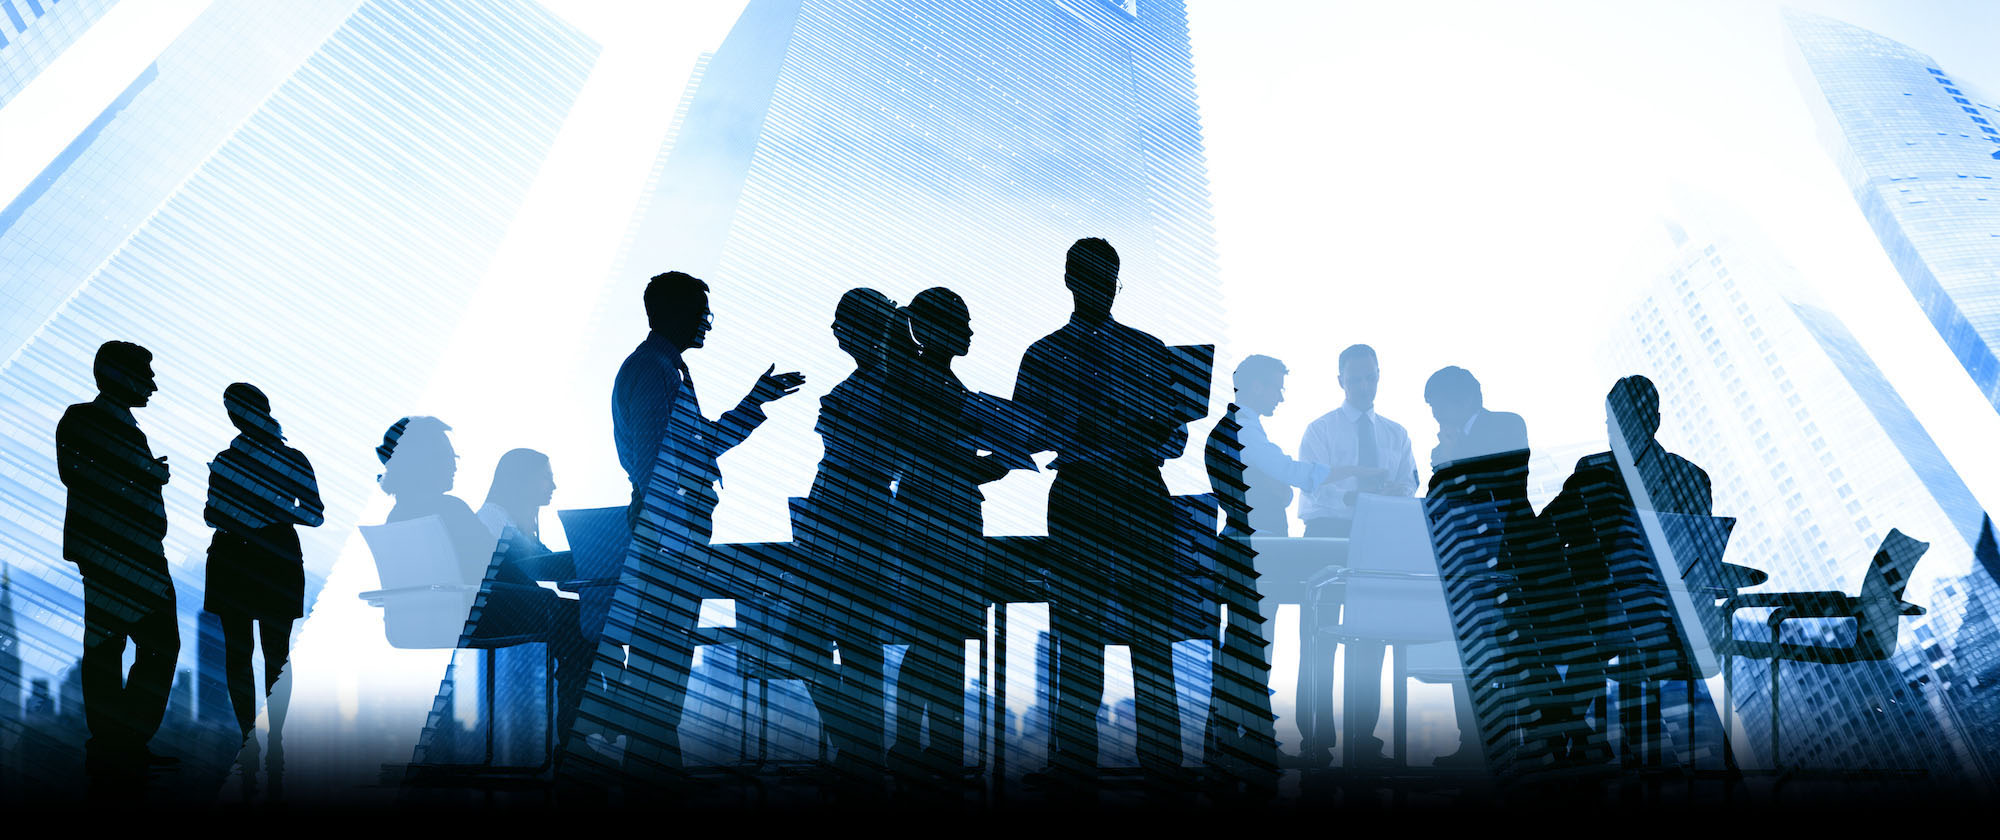
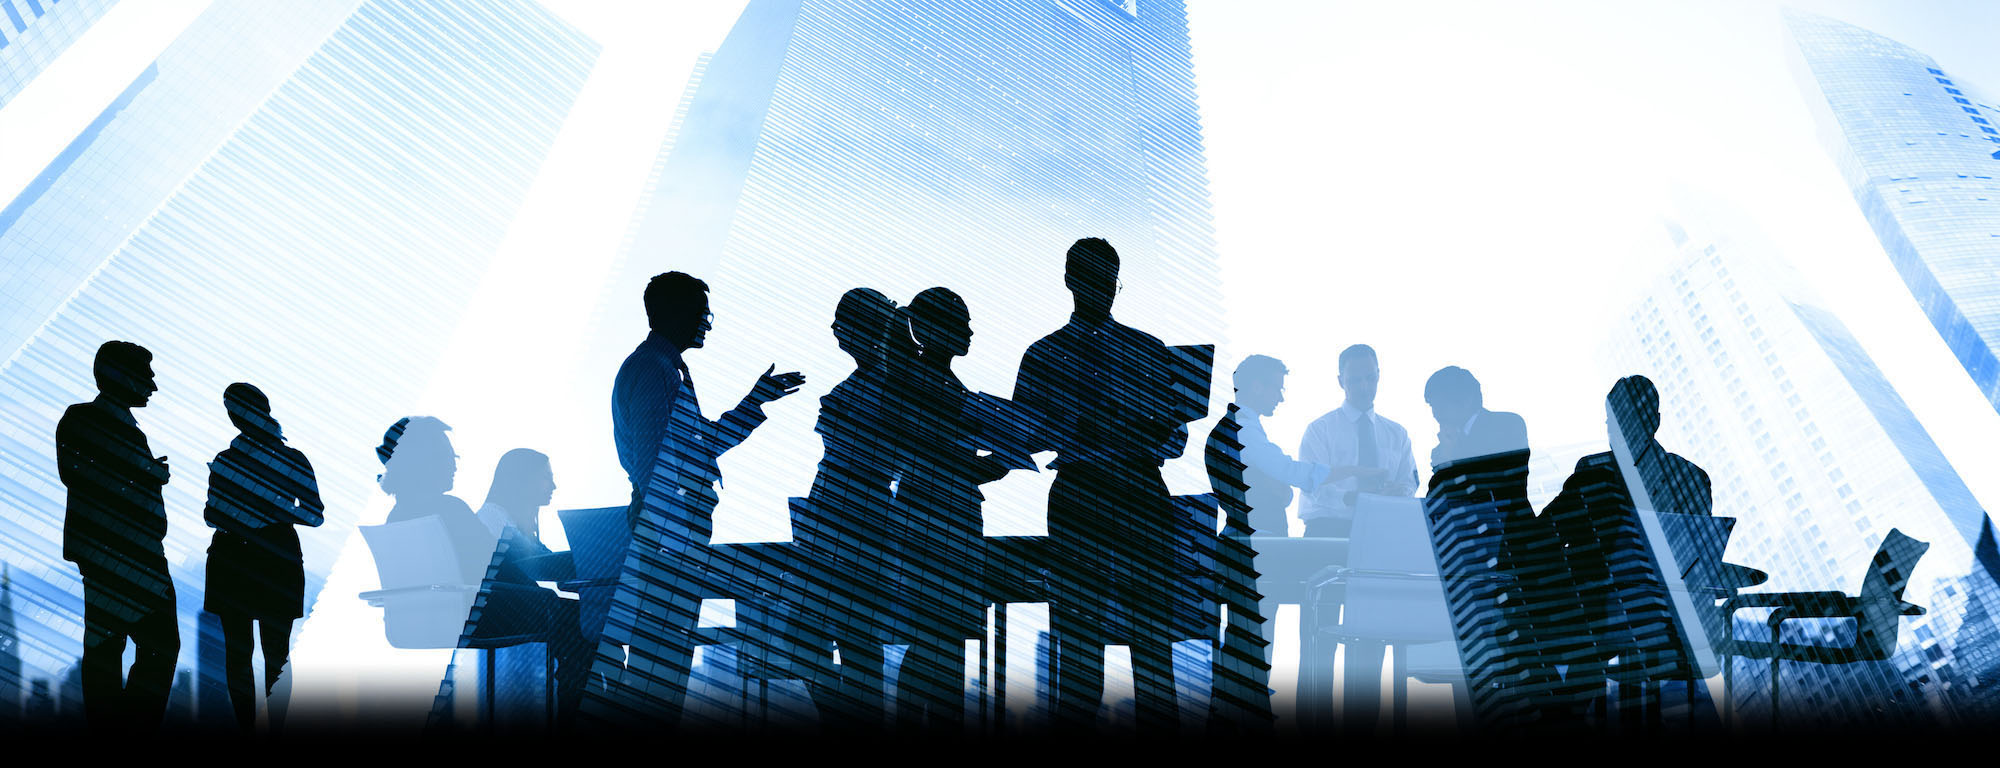
image fix, actionquote width

diff --git a/stylesheet/default.css b/stylesheet/default.css
@@ -58,8 +58,8 @@ h3 {
 #fancy {
   font-size: 3em;
   color: black;
-  font-weight: 200;
-  letter-spacing: 0.04em;
+  font-weight: 500;
+  letter-spacing: 0.00em;
 }
 
 #fancy i, #fancy span {
@@ -81,7 +81,7 @@ h3 {
 }
 
 #fancy {
-  opacity: 0.8;
+  opacity: 1;
   -webkit-transition: all 500ms ease;
   -moz-transition:    all 500ms ease;
   -o-transition:      all 500ms ease;
@@ -89,7 +89,7 @@ h3 {
 }
 
 #fancy:hover {
-  opacity: 0.5;
+  opacity: 0.8;
 }
 
 .navbar-default {
@@ -183,7 +183,7 @@ li a:hover, li a:focus {
 }
 
 .jumbotron {
-  background-image: url("../imgs/landingimage.jpg");
+  background-image: url("../imgs/landingimageold.jpg");
   -webkit-background-size: cover;
   -moz-background-size: cover;
   -o-background-size: cover;
@@ -226,14 +226,14 @@ li a:hover, li a:focus {
 /*POST INTRO BLURB*/
 
 .containeraction {
-  background-color: #030303;
+  background-color: #000000;
 }
 
 #actionquote {
-  padding-bottom: 4em;
+  padding-bottom: 6em;
   padding-top: 1em;
   text-align: center;
-  width: 70%;
+  width: 90%;
   color: white;
   font-size: 1.5em;
 }
